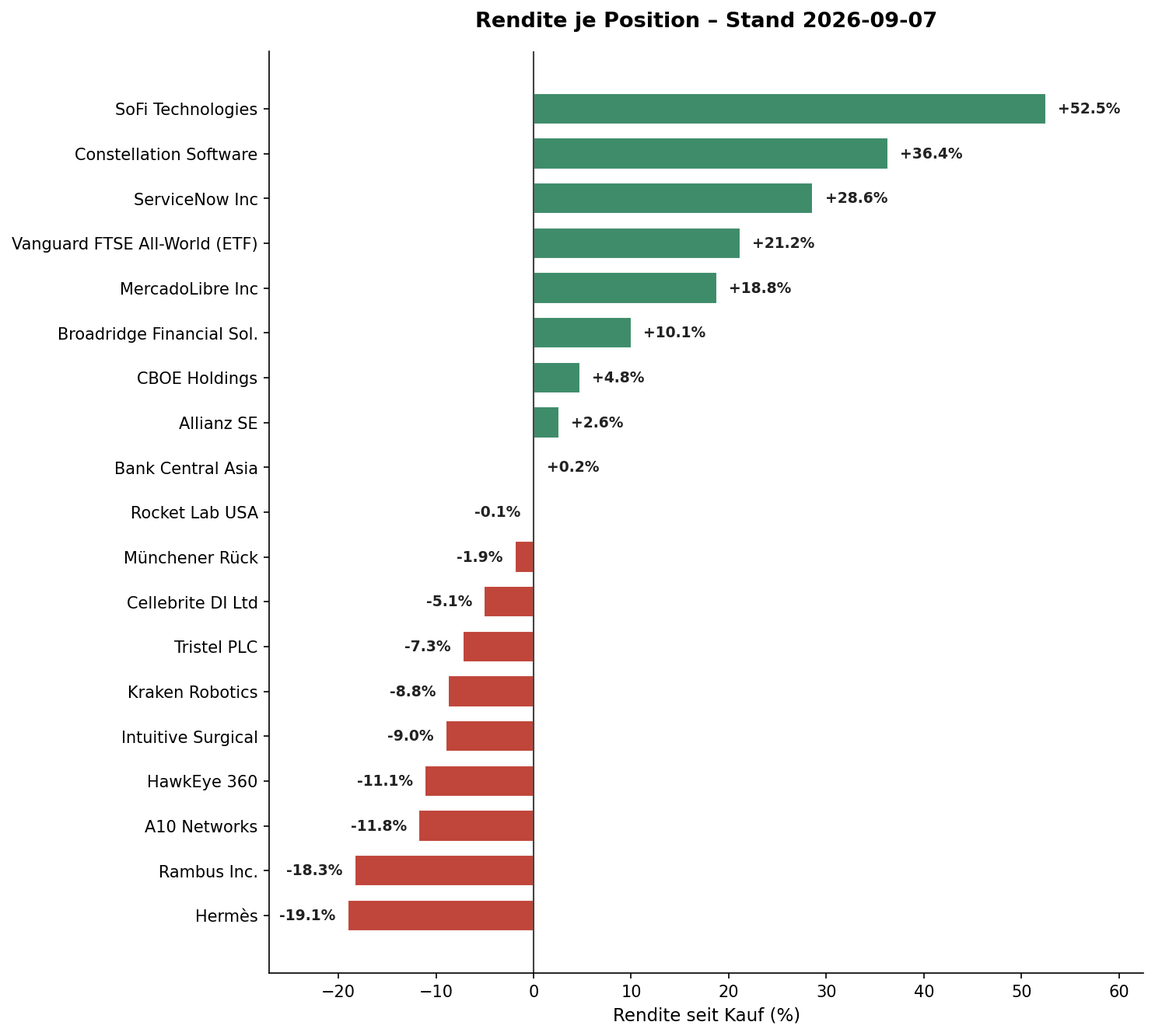
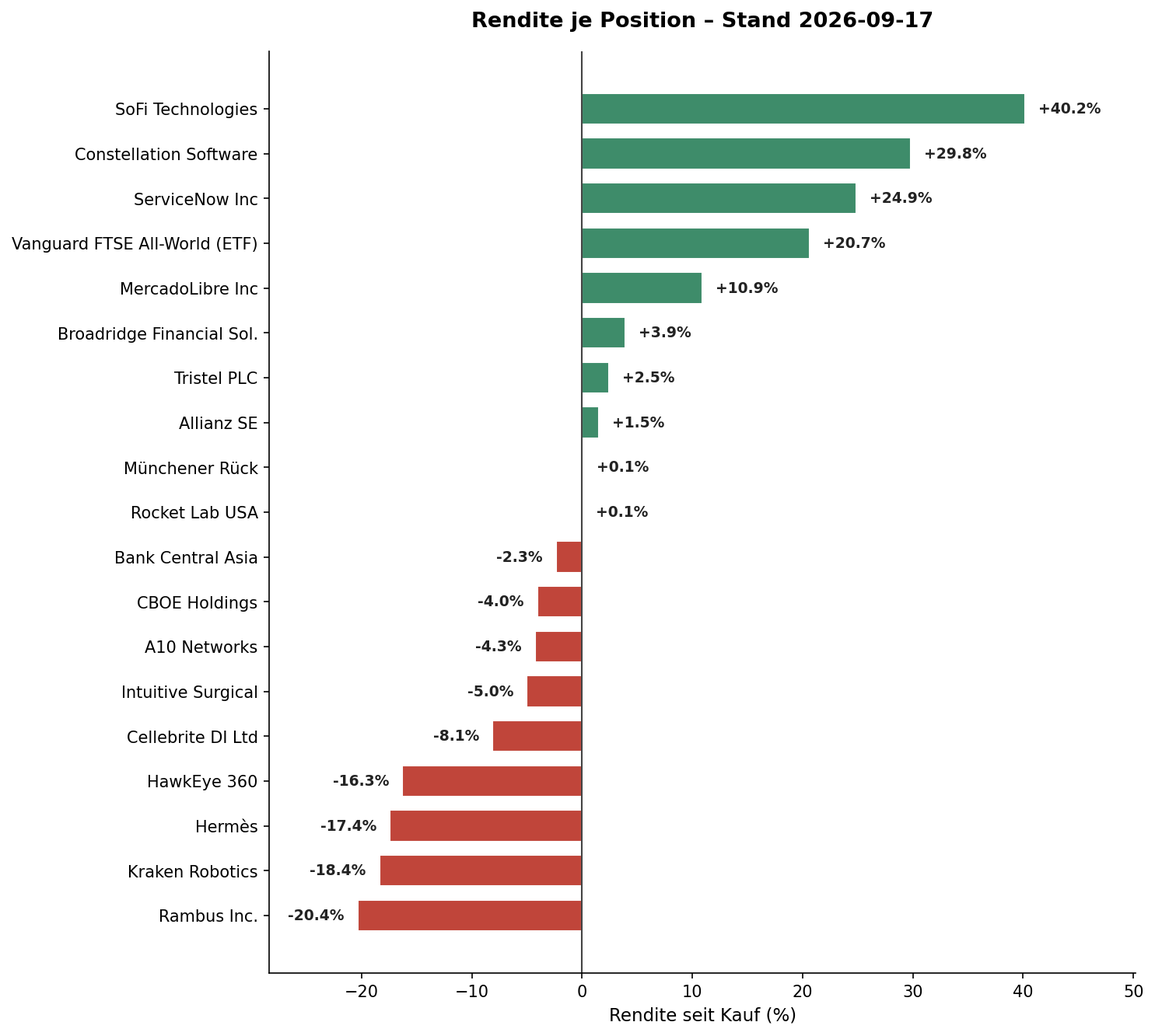
Region-/Sektor-Diskrepanz geklärt, Charts aktualisiert, Hoya/Disco-Zielzonen
Root Cause gefunden: ETF-Anteil wurde in einer Schnellrechnung nur im Nenner
gezaehlt statt per ETF_REGION_SPLIT/ETF_SECTOR_SPLIT auf die Buckets verteilt
- kein Methodikfehler, reiner Rechenfehler. Mit korrigierter Methodik und
heutigen Live-Zahlen: USA 53,28% (fast unveraendert), Europa/UK jetzt im
Zielband (15,54%), Finanzwesen bleibt klar ueberbesetzt (32,58%). Alle 4
Wochenfazit-Charts mit aktuellen Depot-Werten neu erzeugt. Hoya/Disco
Zielzonen hergeleitet (EPS x Ziel-KGV-Band) und in watchlist.md dokumentiert.
Japan-Pipeline vorerst abgeblasen (Brian). CLAUDE.md: gemeinsames Gedaechtnis
zwischen Chat- und Cron-Sessions ueber Pflicht-Erstlektuere von
master_status.md + bridge_status.md verbindlich gemacht.

diff --git a/reports/weekly_charts.py b/reports/weekly_charts.py
@@ -28,34 +28,34 @@ import matplotlib
 matplotlib.use("Agg")
 import matplotlib.pyplot as plt
 
-STAND = "2026-09-07"
+STAND = "2026-09-17"
 
 # (Name, Investsumme, Wert aktuell, Region, Sektor)
 # Region-Buckets: USA | Europa/UK | Japan/Asien | Lateinamerika | Sonstige (CA/IL/etc.)
 # Sektor-Buckets: Technologie | Finanzwesen | Gesundheitswesen | Industriewerte | Rest
 DATA = [
-    ("SoFi Technologies",              2612.93, 3984.69, "USA",          "Finanzwesen"),
-    ("Constellation Software",         1380.00, 1881.77, "Sonstige",     "Technologie"),  # Kanada
-    ("Allianz SE",                      504.43,  517.67, "Europa/UK",    "Finanzwesen"),
-    ("ServiceNow Inc",                 1948.96, 2507.32, "USA",          "Technologie"),
-    ("MercadoLibre Inc",               1442.80, 1714.48, "Lateinamerika","Rest"),
-    ("Broadridge Financial Sol.",      1119.68, 1232.46, "USA",          "Finanzwesen"),
-    ("CBOE Holdings",                  1226.15, 1285.18, "USA",          "Finanzwesen"),
-    ("Kraken Robotics",                1050.00,  957.70, "Sonstige",     "Industriewerte"),  # Kanada
-    ("Rocket Lab USA",                  554.00,  553.21, "USA",          "Industriewerte"),
-    ("Rambus Inc.",                     533.64,  435.75, "USA",          "Technologie"),
-    ("HawkEye 360",                    1681.70, 1494.42, "USA",          "Industriewerte"),
-    ("Bank Central Asia",              1999.94, 2003.54, "Japan/Asien",  "Finanzwesen"),
-    ("Münchener Rück",                 1051.00, 1030.80, "Europa/UK",    "Finanzwesen"),
-    ("A10 Networks",                    506.52,  446.83, "USA",          "Technologie"),
-    ("Intuitive Surgical",             1400.50, 1273.83, "USA",          "Gesundheitswesen"),
-    ("Tristel PLC",                    1002.67,  929.88, "Europa/UK",    "Gesundheitswesen"),
-    ("Cellebrite DI Ltd",              2166.15, 2056.28, "Sonstige",     "Technologie"),  # Israel
-    ("Hermès",                         1905.09, 1541.50, "Europa/UK",    "Rest"),
+    ("SoFi Technologies",              2612.93, 3663.60, "USA",          "Finanzwesen"),
+    ("Constellation Software",         1380.00, 1791.29, "Sonstige",     "Technologie"),  # Kanada
+    ("Allianz SE",                      504.43,  512.09, "Europa/UK",    "Finanzwesen"),
+    ("ServiceNow Inc",                 1948.96, 2433.99, "USA",          "Technologie"),
+    ("MercadoLibre Inc",               1442.80, 1600.66, "Lateinamerika","Rest"),
+    ("Broadridge Financial Sol.",      1119.68, 1163.30, "USA",          "Finanzwesen"),
+    ("CBOE Holdings",                  1226.15, 1176.51, "USA",          "Finanzwesen"),
+    ("Kraken Robotics",                1050.00,  856.86, "Sonstige",     "Industriewerte"),  # Kanada
+    ("Rocket Lab USA",                  554.00,  554.35, "USA",          "Industriewerte"),
+    ("Rambus Inc.",                     533.64,  424.94, "USA",          "Technologie"),
+    ("HawkEye 360",                    1681.70, 1407.62, "USA",          "Industriewerte"),
+    ("Bank Central Asia",              1999.94, 1952.96, "Japan/Asien",  "Finanzwesen"),
+    ("Münchener Rück",                 1051.00, 1052.20, "Europa/UK",    "Finanzwesen"),
+    ("A10 Networks",                    506.52,  484.98, "USA",          "Technologie"),
+    ("Intuitive Surgical",             1400.50, 1330.35, "USA",          "Gesundheitswesen"),
+    ("Tristel PLC",                    1002.67, 1027.37, "Europa/UK",    "Gesundheitswesen"),
+    ("Cellebrite DI Ltd",              2166.15, 1989.99, "Sonstige",     "Technologie"),  # Israel
+    ("Hermès",                         1905.09, 1573.00, "Europa/UK",    "Rest"),
 ]
 ETF_NAME = "Vanguard FTSE All-World (ETF)"
 ETF_INVEST = 6753.40
-ETF_WERT = 8186.86
+ETF_WERT = 8149.30
 
 # Naeherung, Stand 31.07.2026 (justetf/Vanguard-Factsheet, siehe architecture.md)
 ETF_REGION_SPLIT = {

diff --git a/watchlist.md b/watchlist.md
@@ -162,7 +162,7 @@ geschrumpft.
 | TSM (NYSE ADR) | US8740391003 | Taiwan Semiconductor Mfg. (TSMC) | Asien (Taiwan) | Halbleiter-Auftragsfertigung (Foundry) | JARVIS | 🆕 | 🟢 KAUFEN – KGV 30,2x, -10% ggü. 12M-Ø. **MoS-Hinweis:** historisch bis -89% Max-Drawdown möglich (zyklisches Foundry-Geschäft, geopolitisches Taiwan-Risiko zusätzlich) – auch bei günstigerem KGV bleibt das sektortypische Korrekturrisiko real. | Fertigt die KI-Chips von Nvidia & Co. tatsächlich – größter Foundry-Moat der Welt, strukturelles Kernstück der KI-Lieferkette. |
 | FICO (NYSE) | US3032501047 | Fair Isaac Corp. | USA | Finanzdaten/Analytics (Kredit-Scoring) | JARVIS | 🆕 | 🟢 KAUFEN – KGV 30,2x, 39% unter 10J-Median – eigene Einordnung: deutlicher Abschlag zur eigenen Historie. **MoS-Hinweis:** historischer Max-Drawdown -79,3% (2009), aktuell bereits selbst -40,8% im laufenden Drawdown – der günstige KGV-Vergleich spiegelt teilweise genau diesen laufenden Rücksetzer, nicht garantiert reine Stabilität. | **Korrigiert 2026-09-04 ("geschärfter Blick"-Review – die "faktisches Monopol"-Formulierung war nach einer regulatorischen Änderung nicht mehr aktuell):** FHFA kündigte am 22.04.2026 an, dass Fannie Mae/Freddie Mac zugelassenen Kreditgebern künftig VantageScore 4.0 statt ausschließlich Classic FICO erlauben; HUD/FHA lässt ebenfalls sowohl VantageScore 4.0 als auch FICO 10T zu – das beendet das bisherige FICO-Pflicht-Regime bei GSE-Hypotheken. Relevant, weil Hypotheken-Origination 62-71% des Scores-Segment-Umsatzes ausmacht (Q2/Q3 2026). Noch KEIN Downgrade, weil: (1) tatsächliche Marktanteilsverschiebung zu VantageScore noch nicht in echten Zahlen messbar ist – reine Ankündigung vs. bereits eingetretener Umsatzverlust, (2) das Monopol bei Auto-/Kreditkarten-Scoring unberührt bleibt, (3) FY26-Umsatzguidance weiterhin steigend ($2,53 Mrd). **Nächster Prüfpunkt:** sobald erste belastbare Daten zur tatsächlichen VantageScore-Adoptionsrate bei GSE-Hypotheken vorliegen, muss die Kategorie neu bewertet werden – bei signifikantem Marktanteilsverlust ist eine Rückstufung zu Profi wahrscheinlich. |
 | 6861 (Tokyo) | JP3236200006 | Keyence Corp. | Japan | Fabrikautomatisierung (Sensorik/Machine Vision) | BRIAN | 🆕 **[EX-DEPOT]** | 🟡 BEOBACHTEN – KGV 43,6x, leicht erhöht, unter historischem Hoch (65x). **MoS-Hinweis:** deutlicher Kursrückgang bereits während der Finanzkrise 2008 dokumentiert (genaue % nicht verlässlich recherchierbar) – auch fabless Qualitätskonzerne mit extremer Marge sind in Krisen nicht immun. | Ehemalige Depot-Position (verkauft 27.08.2026 @ 439,90€). Einer der profitabelsten Industriekonzerne der Welt (fabless, extrem hohe Marge). |
-| 7741 (Tokyo) | JP3837800006 | Hoya Corp. | Japan | Optik/Halbleiter-Photomasken & MedTech | BRIAN | 🆕 | 🟠 VORSICHT/TEUER – **Aktualisiert 2026-09-06 nach vollständigem 3-fach-TMR-Cross-Check** (siehe `analysen/HOYA-7741-cross-check-fazit-2026-09-06.md`): Kurs 24.140 JPY (04.09.2026, TSE) / 156,10 USD (ADR HOCPY). KGV trailing ~30,6-36,9x, forward ~28,2-34,9x je nach Datenstichtag (Jarvis vs. Conans Live-Recherche), deutlich über Branchen-Ø (~16,6x). PEG 2,3-3,1x (ambitioniert bis Warnzone), EV/FCF 32-37x. **MoS-Hinweis:** Allzeittief während der Finanzkrise 2008 dokumentiert (genaue % nicht verlässlich recherchierbar) – bei bereits hoher Bewertung zusätzlich wenig Sicherheitsmarge. TA (Conan, Live-Chartdaten): Kurs unter SMA50/SMA200, RSI 37,8 – Konsolidierung im Aufwärtstrend, kein Kaufzwang. | Diversifizierter Qualitätskonzern mit Duopol-Weltmarktführerschaft (mit AGC, ~90-93% kombiniert) bei Halbleiter-EUV-Photomasken-Rohlingen plus stabilem Life-Care-/MedTech-Standbein. **3-fach-Cross-Check 2026-09-06 (auch Test des Fact-Pack-Tag-Fixes, siehe HANDOVER.md 10.13):** Jarvis/Jack/Conan kommen unabhängig alle zu BEOBACHTEN (Jack Agent 6/10 Konfidenz NIEDRIG, Conan Agent 6,5/10 Konfidenz GELB 62%) – hohe Übereinstimmung, kein Kategorie-Wechsel. Jack (Gemini) brach diesmal NICHT ab (Piotroski F-Score 7-8/9 und FCF-Marge ~23,4% korrekt als [TRAINING] statt [N/V] getaggt) – erster bestätigter Erfolg des heutigen Fact-Pack-Tag-Fixes nach den fehlgeschlagenen Läufen bei Disco Corp/Lasertec. Conan fand per Live-Suche zusätzlich ein aktives Aktienrückkaufprogramm (bis 200 Mrd. JPY) und eine laufende strategische Prüfung des PENTAX-Medical-Endoskopiegeschäfts (möglicher Verkauf, seit 31.07.2026). Nächster Prüfpunkt: Q2-FY2027-Zahlen (~Ende Oktober/Anfang November 2026). |
+| 7741 (Tokyo) | JP3837800006 | Hoya Corp. | Japan | Optik/Halbleiter-Photomasken & MedTech | BRIAN | 🆕 | 🟠 VORSICHT/TEUER – **Aktualisiert 2026-09-06 nach vollständigem 3-fach-TMR-Cross-Check** (siehe `analysen/HOYA-7741-cross-check-fazit-2026-09-06.md`): Kurs 24.140 JPY (04.09.2026, TSE) / 156,10 USD (ADR HOCPY). KGV trailing ~30,6-36,9x, forward ~28,2-34,9x je nach Datenstichtag (Jarvis vs. Conans Live-Recherche), deutlich über Branchen-Ø (~16,6x). PEG 2,3-3,1x (ambitioniert bis Warnzone), EV/FCF 32-37x. **MoS-Hinweis:** Allzeittief während der Finanzkrise 2008 dokumentiert (genaue % nicht verlässlich recherchierbar) – bei bereits hoher Bewertung zusätzlich wenig Sicherheitsmarge. TA (Conan, Live-Chartdaten): Kurs unter SMA50/SMA200, RSI 37,8 – Konsolidierung im Aufwärtstrend, kein Kaufzwang. | Diversifizierter Qualitätskonzern mit Duopol-Weltmarktführerschaft (mit AGC, ~90-93% kombiniert) bei Halbleiter-EUV-Photomasken-Rohlingen plus stabilem Life-Care-/MedTech-Standbein. **3-fach-Cross-Check 2026-09-06 (auch Test des Fact-Pack-Tag-Fixes, siehe HANDOVER.md 10.13):** Jarvis/Jack/Conan kommen unabhängig alle zu BEOBACHTEN (Jack Agent 6/10 Konfidenz NIEDRIG, Conan Agent 6,5/10 Konfidenz GELB 62%) – hohe Übereinstimmung, kein Kategorie-Wechsel. Jack (Gemini) brach diesmal NICHT ab (Piotroski F-Score 7-8/9 und FCF-Marge ~23,4% korrekt als [TRAINING] statt [N/V] getaggt) – erster bestätigter Erfolg des heutigen Fact-Pack-Tag-Fixes nach den fehlgeschlagenen Läufen bei Disco Corp/Lasertec. Conan fand per Live-Suche zusätzlich ein aktives Aktienrückkaufprogramm (bis 200 Mrd. JPY) und eine laufende strategische Prüfung des PENTAX-Medical-Endoskopiegeschäfts (möglicher Verkauf, seit 31.07.2026). Nächster Prüfpunkt: Q2-FY2027-Zahlen (~Ende Oktober/Anfang November 2026). **Zielzone hergeleitet 2026-09-17 (Brian: "die Zielzone herleiten"):** Forward-EPS ~¥765 (aus Kurs ¥24.140 ÷ KGV forward Mittelwert 31,55x) × Ziel-KGV-Band 21,6-24,9x (1,3-1,5× Branchen-Ø 16,6x — reflektiert echten Duopol-/MedTech-Moat, aber ohne die aktuelle Bewertungs-Prämie) = **Zielzone ¥16.500-19.000 (≈ €92-106 bei EUR/JPY 179,03)**. Vorläufige Herleitung aus bereits dokumentierten Kennzahlen, kein vollständiger neuer Quick-Filter — bei Erreichen vor einer Order-Entscheidung nochmal gegen frische Zahlen prüfen. Preisalarm bei €106 vorgesehen, Scalable-API meldete beim Setzen `upstream_unavailable` (17.09.), Retry beim nächsten Lauf fällig. |
 | BN (NYSE/TSX) | CA11271J1075 | Brookfield Corp. | Kanada | Alternative Asset Management/Holding | BRIAN | 🆕 | 🟡 BEOBACHTEN – KGV 78x absolut hoch, aber -28% ggü. 12M-Ø (Holding-Struktur, KGV schwer vergleichbar). **MoS-Hinweis:** historischer Max-Drawdown -63,6% (2009), 5J-Max-Drawdown -42,3% – Asset-Manager-Holdings sind bei Kreditmarkt-Stress überdurchschnittlich exponiert. | Diversifizierter Vermögensverwalter/Holding (Infrastruktur/Erneuerbare/Private Equity) – Compounder über Kapitalallokation statt Einzelprodukt-Moat. |
 | 6920 (Tokyo) | JP3979200007 | Lasertec Corp. | Japan | Halbleiterausrüstung (EUV-Masken-Inspektion) | BRIAN | ⚠ RISIKO | 🟡 BEOBACHTEN – **Kurs korrigiert 2026-09-05: ¥33.180 (Stand 04.09.2026), vorheriger Kurs ¥46.570 war veraltet/falsch – von Conans Live-Websuche aufgedeckt, siehe `analysen/LASERTEC-cross-check-fazit-2026-09-05.md`.** KGV trailing 38,4x (FY2026 EPS ¥862,99), KGV forward 29,8-33,0x je nach EPS-Basis, EV/FCF ~60x+ – nach dem Kursrückgang moderater, aber kein Schnäppchen. **MoS-Hinweis:** hohe Beta (1,67-1,87), Sektor (Halbleiterausrüstung) strukturell stark zyklisch – analog ASML/TSM historisch 40-90%-Korrekturen möglich. **FY2026 (Fiskaljahr endet Juni):** Umsatz ¥230,5 Mrd. (-8,3%), operatives Ergebnis ¥105,3 Mrd. (-14,3%) – realer Zyklus-Rücksetzer. GEGENLÄUFIG: Auftragseingang ¥237,5 Mrd. (von ¥105,2 Mrd. Vorjahr, mehr als verdoppelt), Backlog ¥323,0 Mrd. – starkes Erholungssignal, stützt FY2027-Guidance (Umsatz ¥290 Mrd., +25,8%). **Nächster Prüfpunkt: Q1-FY2027-Zahlen (~04.11.2026)** – Order-Trend, Operating Margin (Schwelle >40% halten), FY2027-Guidance-Bestätigung. | **Umkategorisiert 2026-09-04 von Talent zu Champions, präzisiert 2026-09-05 nach vollständigem 3-fach-TMR-Cross-Check** (siehe `analysen/LASERTEC-cross-check-fazit-2026-09-05.md`): de facto Monopol (>90%) im ENGEN actinic-EUV-Masken-Inspektions-Segment (13,5nm) – ACTIS/MATRICS A150 ist das einzige kommerziell verfügbare Werkzeug dieser Art. **Präzisierung:** im BREITEREN EUV-/Masken-Inspektionsmarkt führt KLA mit ~34-38% Marktanteil, Top-5-Anbieter halten zusammen 79,6% (2025) – die bisherige "100% Marktanteil"-Formulierung war für die enge Nische korrekt, aber unpräzise kommuniziert. Champions-Einordnung bleibt auf der Qualitäts-Achse bestehen (Marge/Bilanz/Moat sind Spitzenklasse: operative Marge 43-46%, Netto-Cash ¥91,5 Mrd., keine Schulden) – Conan (ChatGPT) stufte im Cross-Check wegen hoher Beta/knapper FCF-Marge stattdessen "Profi+" ein, Jarvis hält an Champions fest (Qualität und Kaufbarkeit/CRV bewusst getrennt bewertet, konsistent mit ASML/TSM als Präzedenzfall für hohe Beta bei Champions-Status). Jack (Gemini) brach mit SCHROTT/Terminal-State ab (Piotroski-F-Score + FCF-Marge als [N/V] statt [TRAINING] eingestuft) – als bekanntes Datenlücken-Artefakt gewertet (identisch zum früheren Asahi-Intecc-/Disco-Corp-Fall), nicht als belastbares Urteil. |
 | ANET (NYSE) | US0404132054 | Arista Networks | USA | Netzwerktechnik (Rechenzentren) | BRIAN | 🆕 | 🟠 VORSICHT/TEUER – KGV 63,4x, 54% über 10J-Median. **MoS-Hinweis:** -37% Drawdown allein im Inflations-Schock 2022 – bei aktuell hoher Bewertung kaum Sicherheitsmarge gegen einen ähnlichen Rücksetzer. | **Umkategorisiert 2026-09-04 von Profi zu Champions** ("geschärfter Blick"-Review – gegenrechercht und bestätigt): GAAP-Bruttomarge 64,1% (FY2025)/62,4% (Q1 2026), operative Marge ~43% seit 8 aufeinanderfolgenden Quartalen konstant gehalten – eine Konsistenz, die kein reiner Netzwerktechnik-Wettbewerber in vergleichbarer Wachstumsphase erreicht. Führende Position bei Hochleistungs-Switches für KI-/Cloud-Rechenzentren, Lieferkettenengpässe im Sektor wirken aktuell eher stabilisierend für Aristas Marktposition als schwächend. Die hohe Bewertung ist ein CRV-Timing-Thema (bleibt 🟠 VORSICHT/TEUER), kein Geschäftsqualitäts-Einwand – daher Champions statt Profi. |
@@ -180,7 +180,7 @@ geschrumpft.
 | CRWD (NASDAQ) | US22788C1053 | CrowdStrike Holdings | USA | Cybersecurity (Endpoint/Cloud) | BRIAN | 🆕 | 🔘 GRAU – KEINE BELASTBARE AUSSAGE – **Anker: KGV ungeeignet** (TTM-EPS nahe Null, GAAP-Verlust durch hohe SBC/Investitionsphase verzerrt), kein tragfähiger Ersatzmaßstab aus dem Fact-Pack ableitbar – für eine echte Einordnung wäre EV/Sales oder Rule-of-40 (Wachstum + FCF-Marge) nötig, nicht im aktuellen Snapshot recherchiert. **MoS-Hinweis:** historischer Max-Drawdown -67,7% – trotz starker Kundenbindung eine der volatileren Cybersecurity-Aktien. | Cloud-native Cybersecurity-Plattform mit hoher Kundenbindung (Falcon), profitiert von wachsender Angriffsfläche – noch nicht so lange bewiesen wie ein Champions-Titel. |
 | MPWR (NASDAQ) | US6098391054 | Monolithic Power Systems | USA | Halbleiter (Power Management) | BRIAN | ⚠ RISIKO | 🟡 BEOBACHTEN – KGV 74,8x, im Rahmen der eigenen Bewertungsspanne für einen margenstarken Halbleiter-Nischenführer – eigene Einordnung: kein klares Signal, kein Schnäppchen. **MoS-Hinweis:** -46% Drawdown 2022, aktuell bereits wieder -27% vom letzten Hoch – deutliches historisches Korrekturmuster trotz starker Erholungsfähigkeit (+74% 2023). | Nischenführer bei Power-Management-Chips für Rechenzentren/KI-Server, hohe Margen, aber zyklischer als ein reiner Champions-Titel. **News-Ampel 2026-09-03:** 🟡 Weiterhin laufende Kanzlei-Untersuchungen zu Governance-/Fiduciary-Duty-Vorwürfen im Nachgang der Nvidia-Auftragsstornierung 2024; operatives Geschäft aktuell sehr stark (+48% Umsatz), Kundenkonzentrationsrisiko bleibt Beobachtungspunkt. |
 | AIT (NYSE) | US03820C1053 | Applied Industrial Technologies | USA | Industrielle Distribution (Antriebstechnik/Automatisierung) | BRIAN | 🆕 | 🟡 BEOBACHTEN – KGV ~25-29x, keine klaren Extremsignale, moderat. **MoS-Hinweis:** keine spezifische Drawdown-Quelle recherchiert, aber als Industriedistributor konjunkturabhängig – bei einem Abschwung realistisch zweistellige Korrekturen möglich. | Qualitäts-Distributor mit stetigem Cross-Selling-Modell, profitiert von Reshoring/Automatisierung in der US-Industrie. |
-| 6146 (Tokyo) | JP3548600000 | Disco Corp. | Japan | Halbleiterausrüstung (Wafer-Dicing/-Schleifen) | BRIAN | 🆕 | 🟡 ABWARTEN/BEOBACHTEN – KGV ~50x teuer, FCF-Marge (16,9%) unter 20%-Schwelle, volle Analyse 2026-09-03 (Jarvis ABBRUCH/Jack SCHROTT/Conan BEOBACHTEN 5,5). **MoS-Hinweis:** Halbleiterausrüster generell stark zyklusanfällig (vgl. ASML/TSM: 45-90% Max-Drawdowns historisch) – bei bereits hohem KGV kaum Sicherheitsmarge. | Führend bei Präzisions-Schneide-/Schleiftechnik für Halbleiter-Wafer, profitiert vom Advanced-Packaging-Trend – zyklisches Semicap-Geschäft. **Ergänzt 2026-09-04 ("geschärfter Blick"-Review):** fundamental fast Champions-reif – Marktanteil ~70-80% bei Wafer-Dicing/-Grinding (dominant), operative Marge 42,3% (elite), Nettomarge 31%. Der bisherige 3-KI-Cross-Check (Jarvis ABBRUCH/Jack SCHROTT/Conan BEOBACHTEN) bezog sich auf Bewertung (KGV ~50x) – laut eigenem Regelwerk ist Bewertung KEIN gültiges Kategorisierungskriterium, das negative Cross-Check-Ergebnis rechtfertigt also KEIN Downgrade. Der eigentliche, legitime Profi-Grund ist die echte Zyklizität: EPS-Wachstum verlangsamt sich projiziert von +38% (2025) auf +9,5% (2026), FCF schwankt stark mit dem Halbleiter-Capex-Zyklus – Wachstumsverlässlichkeit bleibt der limitierende Faktor, nicht Marge oder Marktstellung. |
+| 6146 (Tokyo) | JP3548600000 | Disco Corp. | Japan | Halbleiterausrüstung (Wafer-Dicing/-Schleifen) | BRIAN | 🆕 | 🟡 ABWARTEN/BEOBACHTEN – KGV ~50x teuer, FCF-Marge (16,9%) unter 20%-Schwelle, volle Analyse 2026-09-03 (Jarvis ABBRUCH/Jack SCHROTT/Conan BEOBACHTEN 5,5). **MoS-Hinweis:** Halbleiterausrüster generell stark zyklusanfällig (vgl. ASML/TSM: 45-90% Max-Drawdowns historisch) – bei bereits hohem KGV kaum Sicherheitsmarge. | Führend bei Präzisions-Schneide-/Schleiftechnik für Halbleiter-Wafer, profitiert vom Advanced-Packaging-Trend – zyklisches Semicap-Geschäft. **Ergänzt 2026-09-04 ("geschärfter Blick"-Review):** fundamental fast Champions-reif – Marktanteil ~70-80% bei Wafer-Dicing/-Grinding (dominant), operative Marge 42,3% (elite), Nettomarge 31%. Der bisherige 3-KI-Cross-Check (Jarvis ABBRUCH/Jack SCHROTT/Conan BEOBACHTEN) bezog sich auf Bewertung (KGV ~50x) – laut eigenem Regelwerk ist Bewertung KEIN gültiges Kategorisierungskriterium, das negative Cross-Check-Ergebnis rechtfertigt also KEIN Downgrade. Der eigentliche, legitime Profi-Grund ist die echte Zyklizität: EPS-Wachstum verlangsamt sich projiziert von +38% (2025) auf +9,5% (2026), FCF schwankt stark mit dem Halbleiter-Capex-Zyklus – Wachstumsverlässlichkeit bleibt der limitierende Faktor, nicht Marge oder Marktstellung. **Zielzone hergeleitet 2026-09-17 (Brian: "die Zielzone herleiten"):** Trailing-EPS ~¥1.017 (aus Kurs €284/¥50.845 (17.09.) ÷ KGV ~50x) × Ziel-KGV-Band 28-33x (deutliche Absenkung vom aktuellen ~50x, aber oberhalb des Branchen-Ø — reflektiert die elite operative Marge 42,3%/Marktanteil 70-80%, rechtfertigt mehr Prämie als ein durchschnittlicher Semicap-Titel) = **Zielzone ¥28.500-33.500 (≈ €159-187 bei EUR/JPY 179,03)**. Vorläufige Herleitung, Preis-Referenz ist der aktuelle Kurs (17.09.) statt eines historischen Analyse-Datums — bei Erreichen vor einer Order-Entscheidung nochmal gegen frische Zahlen/Zyklus-Stand prüfen. Preisalarm bei €187 vorgesehen, Scalable-API meldete beim Setzen `upstream_unavailable` (17.09.), Retry beim nächsten Lauf fällig. |
 | WSO (NYSE) | US9426222009 | Watsco Inc. | USA | HVAC-Distribution (Klima-/Heiztechnik) | JARVIS | ⚠ RISIKO | 🟢 KAUFEN – KGV 26,9x, 6% unter 10J-Ø. **MoS-Hinweis:** historischer Max-Drawdown -64,3% – trotz stabilem Distributionsgeschäft überraschend hohe historische Schwankungsbreite. | Familiengeführter Marktführer in der nordamerikanischen HVAC-Distribution – US-Pendant zur Beijer-Ref-Logik aus dem Nicht-Index-Screening. **ISIN am 2026-09-01 korrigiert** – die ursprünglich erfasste US9427491025 gehört tatsächlich zu Watts Water Technologies, einer anderen Firma; beim Scalable-Watchlist-Abgleich aufgefallen. **News-Ampel 2026-09-03:** 🟡 Q2-EPS klar unter Konsens (4,00$ vs. 4,41$ erwartet), Kurs -11% seit Zahlen, Morgan Stanley senkt Kursziel – erste spürbare Delle in der sonst sehr verlässlichen HVAC-Distributionsthese. **Eingeordnet 2026-09-04 ("geschärfter Blick"-Review):** Ursache ist die Normalisierung eines temporären Rückenwinds (A2L-Kältemittel-/Tarif-Preiseffekte 2025, der jetzt ausläuft) – Bruttomarge fiel um 180 Bp auf 27,5%, Op-Marge 11,3%. Kein struktureller Marktanteilsverlust, die nordamerikanische Distributionsführerschaft bleibt unangetastet, aber ein reales (wenn auch einmaliges) Margen-Normalisierungsereignis – weiter beobachten über die nächsten 1-2 Quartale, bevor endgültig Entwarnung gegeben wird. |
 | NVT (NYSE) | IE00BDVJJQ56 | nVent Electric plc | USA/Irland | Elektrotechnik (Verbindungs-/Schutztechnik) | BRIAN | 🆕 | 🔴 MEIDEN/ÜBERBEWERTET – KGV 55,1x, 171% über 10J-Median – eigene Einordnung: stärkstes Überbewertungssignal der Liste. **MoS-Hinweis:** historischer Max-Drawdown -56,2% – Überbewertung UND hohe Grundvolatilität gleichzeitig, doppelt ungünstige Kombination. | Profiteur von Elektrifizierung, Rechenzentrums-Ausbau und Reshoring; solide, aber weniger dominant als ein Champions-Titel. |
 | 7747 (Tokyo) | JP3110650003 | Asahi Intecc Co. | Japan | MedTech (Führungsdrähte für Katheter) | BRIAN | 🆕 | 🟡 BEOBACHTEN (Full Deep Dive 10.09.2026, echter 3-fach-Cross-Check-Versuch — siehe `analysen/ASAHI-fulldeepdive-cross-check-2026-09-10.md`). Kurs ¥3.167-3.235 (zwei direkt gefetchte Live-Quellen wichen selbst hier noch um ~2% ab — Konan-Wert ¥3.167, Jarvis/Jack-Wert ¥3.235 — dritter dokumentierter Preis-Unsicherheitsfall bei diesem Ticker). **Conan (unabhängige Primärquellen-Analyse, SEC-äquivalent aus offiziellen IR-Filings):** ROIC verifiziert 18,5% (verfehlt knapp die 20%-Schwelle), K-Score 4/5, Moat SOLIDE (nicht STARK), Management-Score 4/7, Agent Score 6,3/10, Konfidenz 🔴 NIEDRIG 57%. DCF-Range Bear/Base/Bull ¥2.600-2.900 / ¥3.600-3.900 / ¥4.500-4.900. **Rating: BEOBACHTEN, Sizing 0% (Tier 4), Abstauber-Zone ¥2.750-2.900.** **Jack löste beim ersten Versuch erneut den bekannten Reflex-Abbruch-Bug aus** (FCF-Marge-real-nach-SBC als N/V statt TRAINING getaggt, Terminal-Abbruch — dritte/vierte dokumentierte Wiederholung bei genau diesem Ticker, siehe HANDOVER.md 10.13) und lieferte im korrigierten zweiten Versuch nur noch reduzierte Format-Tiefe (keine eigene DCF, stützte sich stattdessen auf eine zitierte externe Analysten-Meinung "Hold/Pass" statt eigener Herleitung — Verstoß gegen "Externe Quellen nie Benchmark") — als Artefakt gewertet, Conans Analyse erhält mehr Gewicht. **Neue Funde ggü. dem Quick-Filter vom 09.09.:** China-Kundenkonzentration ~12% (Beijing Jiashi Weizhong Medical Equipment, größter Einzelkunde), FX-/Yen-Abhängigkeit (FY2026-Gewinnsprung teils schwacher-Yen-getrieben), Bruttomarge-Expansion real und bestätigt (65,7%→70,4% FY22-26, keine Erosion), Guidance-Track-Record echtes mehrfaches Beat-and-Raise (Erstguidance→Feb-2026-Aufwärtsrevision→Ist-Ergebnis schlägt auch die Revision). Kein Going-Concern (offiziell "Not applicable"). **Portfolio-Fit positiv:** würde gleichzeitig die Japan/Asien-Lücke (9,49% vs. 10-15% Ziel) UND die Gesundheitswesen-Lücke (8,38% vs. 10-15% Ziel) im Depot schließen — aber Bewertung/Datenkonfidenz rechtfertigen aktuell keinen Kauf, nur eine Preisalarm-Beobachtung. | **Umkategorisiert 2026-09-04 von Talent zu Profi** (Brian: "sind das keine Talente?" – gegenrechercht und bestätigt): >50% globaler Marktanteil bei PCI-Guidewires (Top-5-Gesamtmarkt mit Boston Scientific/Terumo/Abbott/Medtronic, aber klare Führung speziell im CTO-Guidewire-Segment), operative Marge 31,1% (FY2026) dank vertikal integrierter Fertigung. Das ursprüngliche "gemischte Rating" (Jarvis ABBRUCH/Jack SCHROTT/Conan BEOBACHTEN 6) war primär ein Datenlücken-Artefakt (fehlende FCF-/Bilanz-Primärquellen lösten Jacks bekannten Reflex-Abbruch-Bug aus, siehe HANDOVER.md 10.13), keine echte Geschäftsqualitäts-Schwäche. |

diff --git a/depot/master_status.md b/depot/master_status.md
@@ -294,7 +294,31 @@ Quelle: `depot/offene_empfehlungen.md` (dort maßgeblich, hier nur Kurzstand).
 | Kraken Robotics | Nachkauf-Zone (Preisalarm) | ≤2,80 |
 | Rambus | Nachkauf-Zone (Preisalarm) | ≤65 |
 
-## 7. Portfolio-Regel-Check (echt berechnet, 2026-09-07)
+## 7a. Portfolio-Regel-Check — AKTUALISIERT 2026-09-17 (Region-/Sektor-Diskrepanz geklärt)
+
+**Fund beim Nachrechnen (Brian: "kläre das jetzt"):** eine erste Schnellrechnung kam auf USA≈38% statt der dokumentierten 53,65% — Ursache war ein reiner Rechenfehler (ETF-Wert nur im Nenner mitgezählt, aber nicht per `ETF_REGION_SPLIT`/`ETF_SECTOR_SPLIT` (siehe `reports/weekly_charts.py`) auf die Regionen/Sektoren verteilt). Mit korrigierter Methodik und heutigen Live-Zahlen (Depot-Komplettupdate vom 17.09., Gesamtwert 33.639,41 €, Stocks+ETF-Basis 33.145,36 €):
+
+| Region | Real (17.09.) | Ziel-Band | Status | Vorher (07.09.) |
+|---|---|---|---|---|
+| USA/Nordamerika | 53,28% | ≤55-60% | erfüllt | 53,65% (nahezu unverändert) |
+| Europa/UK | 15,54% | 15-20% | **jetzt im Zielband** | 14,73% (knapp unterbesetzt) |
+| Japan/Asien | 9,57% | 10-15% | unterbesetzt | 9,49% (nahezu unverändert) |
+| Sonstige (CA/IL) | 16,77% | kein festes Band | unverändert ausgelastet | 17,10% |
+| Lateinamerika | 4,83% | kein festes Band | unverändert | 5,04% |
+
+| Sektor | Real (17.09.) | Ziel-Band | Status | Vorher (07.09.) |
+|---|---|---|---|---|
+| Finanzwesen | 32,58% | 20-25% | **weiterhin klar über Zielband** | 33,32% |
+| Technologie/Halbleiter | 29,71% | 30-35% | knapp unterbesetzt | 29,57% |
+| Rest | 17,05% | 5-10% | über Zielband | 16,88% |
+| Industriewerte | 11,60% | 10-15% | im Zielband | 11,86% |
+| Gesundheitswesen | 9,06% | 10-15% | unterbesetzt | 8,38% |
+
+**ETF-Anteil:** 24,23% des Gesamtportfolios (Ziel ≥50%, weiterhin VERSTOSS, aber im gewohnten langsamen Aufbau via 600€/Monat-Sparplan — war 23,40% am 07.09.). **Positionsgrößen:** größte Position SoFi 10,89% (innerhalb der dokumentierten 12%-Ausnahme, kein Verstoß), keine Position unter der 1%-Mindestgrenze.
+
+**Konsequenz unverändert:** kein automatisches Verkaufssignal. Finanzwesen bleibt der einzige echte Struktur-Überhang, Japan/Asien und Gesundheitswesen bleiben die priorisierten Lücken für neues Kapital — deckt sich mit der bereits laufenden Priorisierung (Hoya/Disco/Asahi-Intecc-Zielzonen).
+
+## 7. Portfolio-Regel-Check (echt berechnet, 2026-09-07, historisch — siehe 7a oben für den aktuellen Stand)
 
 **Methodik:** Live-Positionswerte Scalable Capital (ETF, Bank Central Asia,
 Gold, Cash) zum 07.09., übrige 3 Broker unverändert aus `depot/*.md` vom
@@ -355,7 +379,7 @@ am 04.09.).
 | Lücke | Zuletzt geprüfter Kandidat | Ergebnis | Nächster Schritt |
 |---|---|---|---|
 | Talent-Slot (Watchlist) + Europa/UK + Gesundheitswesen | BONESUPPORT Holding AB (BONEX) | **Aufgenommen 07.09.2026** (3-fach-Quick-Filter einstimmig BEOBACHTEN-STARK, ersetzt Rorze) | Erledigt für diesen Slot – Beobachtungspunkt: CERAMENT-V-FDA-Entscheidung (Datenpaket fällig 31.10.2026) |
-| Japan/Asien-Region (weiterhin unterbesetzt, 9,49% vs. 10-15%) | Rorze (6323) | Durchgefallen (3-fach Scout-Check, 04.09.2026) – Moat 2/4, Wachstum eingebrochen | **08.09.2026:** gezielter Jack+Conan-Rechercheauftrag (kein Index-Volldurchlauf, siehe `depot/bridge_status.md`) lieferte 10 neue Namen: Sansan, Smaregi, VRAIN Solution, Shin-Etsu Chemical, Park Systems (Jack); OBIC, GMO Payment Gateway, eGuarantee, SMC Corp, AirTAC International (Conan). Noch KEIN Gate-Check/Quick-Filter durchlaufen – nächster Lauf: Strategie-Fit-/Duplikations-/Identity-Gate für alle 10, dann Quick-Filter für die 1-2 stärksten (Shin-Etsu Chemical/SMC Corp fachlich am stärksten, aber große Standardwerte; OBIC/eGuarantee am nischigsten). Vollständiger Nikkei225/TOPIX-Indexdurchlauf weiterhin separat ausstehend. |
+| Japan/Asien-Region (weiterhin unterbesetzt, 9,49% vs. 10-15%) | Rorze (6323) | Durchgefallen (3-fach Scout-Check, 04.09.2026) – Moat 2/4, Wachstum eingebrochen | **17.09.2026 (Brian): Kandidaten-Pipeline vorerst abgeblasen.** Die 10 am 08.09. gefundenen Namen (Sansan, Smaregi, VRAIN Solution, Shin-Etsu Chemical, Park Systems, OBIC, GMO Payment Gateway, eGuarantee, SMC Corp, AirTAC International) bleiben unverarbeitet als Backlog dokumentiert (kein Gate-Check/Quick-Filter durchlaufen), werden aber NICHT weiter aktiv verfolgt, bis Brian das reaktiviert. Stattdessen aktueller Fokus: Zielzonen für bereits bekannte Japan-Watchlist-Werte (Asahi Intecc/Hoya/Disco) herleiten, siehe watchlist.md. Kein Datenverlust – die 10 Namen bleiben hier als Wiedereinstiegspunkt notiert. |
 
 ## 9. Letzte Scheduled-Task-Läufe
 

diff --git a/CLAUDE.md b/CLAUDE.md
@@ -22,3 +22,29 @@ gebunden:** Force-Push, `git reset --hard`, das Löschen von Branches, das
 Amenden bereits gepushter Commits, oder jede andere destruktive/
 history-verändernde Git-Operation. Diese Ausnahme gilt unabhängig von der
 obigen Auto-Push-Freigabe.
+
+## Gemeinsames Gedächtnis über Chat-Sessions UND automatisierte Läufe hinweg (seit 2026-09-17, von Brian gefordert)
+
+Chat-Sessions (interaktiv) und die Hermes-Cron-Läufe (taeglicher-trigger-check/
+blitz-scan/wochenfazit/monatsrecap) sind GETRENNTE Ausführungskontexte ohne
+gemeinsames Live-Gedächtnis — sie teilen sich Zustand AUSSCHLIESSLICH über die
+Dateien in diesem Repo. Ein Cron-Lauf, der gerade eben etwas erledigt hat,
+ist einer neu gestarteten Chat-Session nicht automatisch bekannt, und
+umgekehrt.
+
+**Deshalb PFLICHT, bevor in irgendeiner Session eine depot-/watchlist-/
+finanzbezogene Einschätzung, Empfehlung oder Aktion erfolgt:**
+1. `depot/master_status.md` vollständig lesen (konsolidierter Status —
+   Kategorie-Zählungen, offene Prüfpunkte, offene Empfehlungen, Cash-Stand).
+2. Die letzten ~40 Zeilen von `depot/bridge_status.md` lesen (Log der
+   jüngsten automatisierten Läufe — zeigt, was zuletzt automatisiert
+   passiert ist, auch wenn diese Session davon nichts "weiß").
+3. Bei Widersprüchen zwischen beiden Dateien oder zu älteren Annahmen: die
+   Informations-Vorrang-Hierarchie aus `Agent-Playbook.md` anwenden
+   (jüngste bestätigte Transaktion/Entscheidung > `master_status.md` >
+   `Agent-Playbook.md` > ältere Analysen/`HANDOVER.md`).
+
+Das gilt für JEDE Session-Art gleichermaßen — interaktiver Chat, Blitz-Scan,
+Täglicher Trigger-Check, Wochenfazit, Monatsrecap. Ziel: keine Session
+agiert auf einem Stand, der durch eine andere Session in der Zwischenzeit
+bereits überholt wurde.
